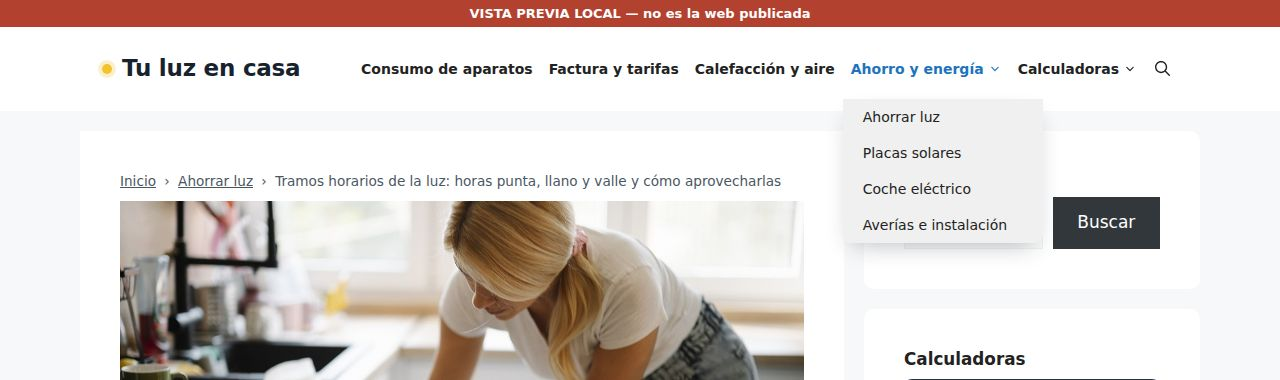
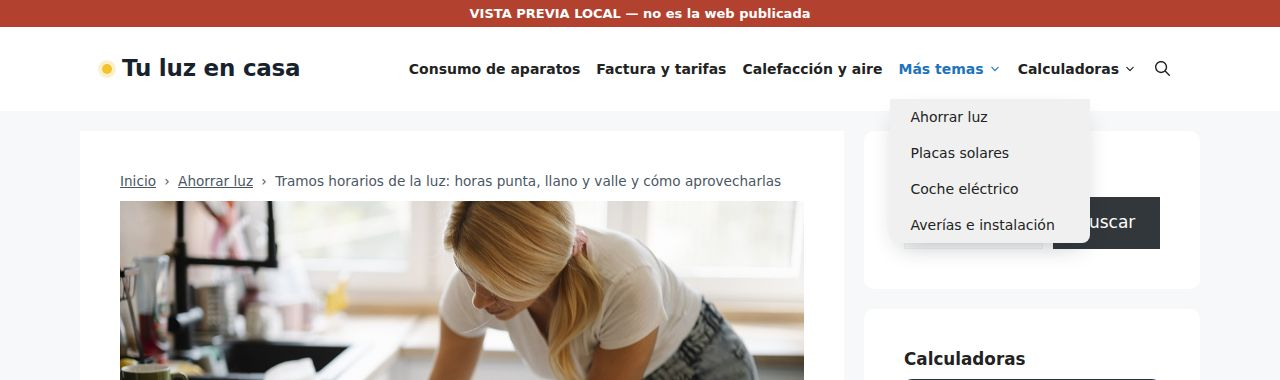
Rediseño aprobado: sin respuesta rápida, menú «Más temas», lista de cambio del enlace a la calculadora y página 156 en borrador
Claude-Session: https://claude.ai/code/session_01LcUkQSM9hv3dGR2XgEzJQL

diff --git a/tuluzencasa/rediseno/wpcode-diseno.css b/tuluzencasa/rediseno/wpcode-diseno.css
@@ -94,9 +94,6 @@ body.home{background:var(--tl-pared)}
 .single .rank-math-breadcrumb a{color:var(--tl-tinta2)}
 .single .rank-math-breadcrumb .separator{margin:0 4px}
 .single .entry-meta .posted-on{font-weight:600}
-.tl-respuesta{background:#F2C2301f;border-left:4px solid var(--tl-amarillo);border-radius:0 10px 10px 0;padding:14px 18px;margin:0 0 1.5em}
-.tl-respuesta strong{display:block;font-size:.8rem;text-transform:uppercase;letter-spacing:.07em;color:var(--tl-tinta2);margin-bottom:4px}
-.tl-respuesta p{margin:0;font-size:1.05rem;line-height:1.5}
 .tl-indice{background:var(--tl-papel);border:1px solid var(--tl-linea);border-radius:10px;padding:14px 18px 6px;margin:0 0 1.5em}
 .tl-indice>p{font-weight:800;margin:0 0 6px}
 .tl-indice ul{margin:0 0 8px 1.2em}

diff --git a/tuluzencasa/rediseno/herramientas/construir.py b/tuluzencasa/rediseno/herramientas/construir.py
@@ -18,7 +18,7 @@ def li(id_,txt,url,cur=False): return f'<li id="menu-item-{id_}" class="menu-ite
 def lip(id_,txt,kids): return f'<li id="menu-item-{id_}" class="menu-item menu-item-type-custom menu-item-has-children menu-item-{id_}"><a href="#">{txt}{ARROW}</a>\n<ul class="sub-menu">'+''.join(kids)+'</ul>\n</li>'
 MENU=('<ul id="menu-principal" class=" menu sf-menu">'+li(38,'Consumo de aparatos',W+'/consumo/')+li(132,'Factura y tarifas',W+'/factura-luz/')
  +li(78,'Calefacción y aire',W+'/climatizacion/')
- +lip(151,'Ahorro y energía',[li(152,'Ahorrar luz',W+'/ahorro/'),li(153,'Placas solares',W+'/placas-solares/'),li(154,'Coche eléctrico',W+'/coche-electrico/'),li(37,'Averías e instalación',W+'/instalacion/')])
+ +lip(151,'Más temas',[li(152,'Ahorrar luz',W+'/ahorro/'),li(153,'Placas solares',W+'/placas-solares/'),li(154,'Coche eléctrico',W+'/coche-electrico/'),li(37,'Averías e instalación',W+'/instalacion/')])
  +lip(900,'Calculadoras',[li(901,'Calculadora de consumo eléctrico',W+'/calculadora-consumo-electrico/'),li(902,'Calculadora de potencia contratada',W+'/calculadora-potencia-contratada/')])
  +'</ul>')
 LUPA='<span class="gp-icon icon-search"><svg viewBox="0 0 512 512" aria-hidden="true" xmlns="http://www.w3.org/2000/svg" width="1em" height="1em"><path fill-rule="evenodd" clip-rule="evenodd" d="M208 48c-88.366 0-160 71.634-160 160s71.634 160 160 160 160-71.634 160-160S296.366 48 208 48zM0 208C0 93.125 93.125 0 208 0s208 93.125 208 208c0 48.741-16.765 93.566-44.843 129.024l133.826 134.018c9.366 9.379 9.355 24.575-.025 33.941-9.379 9.366-24.575 9.355-33.941-.025L337.238 370.987C301.747 399.167 256.839 416 208 416 93.125 416 0 322.875 0 208z" /></svg></span>'

diff --git a/tuluzencasa/rediseno/wpcode-plantilla.php b/tuluzencasa/rediseno/wpcode-plantilla.php
@@ -27,7 +27,7 @@ add_filter( 'generate_post_date_output', function ( $output, $time_string ) {
 	return '<span class="posted-on">Actualizado el ' . $time_string . '</span> ';
 }, 10, 2 );
 
-/* 3. Contenido de las entradas: respuesta rápida, índice, huecos de anuncios, autor y relacionados */
+/* 3. Contenido de las entradas: índice, huecos de anuncios, autor y relacionados */
 add_filter( 'the_content', function ( $content ) {
 	if ( ! is_singular( 'post' ) || ! in_the_loop() || ! is_main_query() ) {
 		return $content;
@@ -63,12 +63,6 @@ add_filter( 'the_content', function ( $content ) {
 	if ( preg_match_all( '#<h2[ >]#', $content, $m, PREG_OFFSET_CAPTURE ) && count( $m[0] ) >= 3 ) {
 		$mitad   = $m[0][ intdiv( count( $m[0] ), 2 ) ][1];
 		$content = substr( $content, 0, $mitad ) . $hueco( 'mitad' ) . substr( $content, $mitad );
-	}
-
-	// Respuesta rápida: el extracto, solo si el artículo no tiene ya una.
-	if ( has_excerpt() && false === strpos( $content, 'tl-respuesta' ) ) {
-		$content = '<div class="tl-respuesta"><strong>Respuesta rápida</strong><p>'
-			. esc_html( get_the_excerpt() ) . '</p></div>' . $content;
 	}
 
 	// Hueco 3: al final.

diff --git a/tuluzencasa/rediseno/cambio-calculadora-portada.md b/tuluzencasa/rediseno/cambio-calculadora-portada.md
@@ -1,0 +1,171 @@
+# Cambio «calculadora de la portada» → «nuestra calculadora de consumo»
+
+Enlace nuevo: `https://tuluzencasa.com/calculadora-consumo-electrico/`. Entre corchetes, el texto enlazado. Solo cambian estas frases; el resto del contenido queda igual.
+
+## 79 · Página /sobre-nosotros/
+
+- Antes: Todas las cifras de la web salen de las mismas reglas que usa la [calculadora de consumo de la portada]:
+  Ahora: Todas las cifras de la web salen de las mismas reglas que usa [nuestra calculadora de consumo]:
+
+## 16 · Entrada /cuanto-consume-aire-acondicionado/
+
+- Antes: Con la [calculadora de consumo de la portada] puedes meter tu potencia y tus horas y comprobar si la cifra cuadra.
+  Ahora: Con [nuestra calculadora de consumo] puedes meter tu potencia y tus horas y comprobar si la cifra cuadra.
+
+- Antes: Calcula tu caso exacto con la [calculadora de la portada]:
+  Ahora: Calcula tu caso exacto con [nuestra calculadora de consumo]:
+
+## 17 · Entrada /cuanto-consume-freidora-de-aire/
+
+- Antes: Es la misma regla que usa la calculadora de la portada.
+  Ahora: Es la misma regla que usa nuestra calculadora de consumo.
+
+- Antes: Son unos 15,21 € al año con tres usos a la semana, comparando con un horno de 2.200 W, el mismo que usa la calculadora de la portada.
+  Ahora: Son unos 15,21 € al año con tres usos a la semana, comparando con un horno de 2.200 W, el mismo que usa nuestra calculadora de consumo.
+
+- Antes: Y para sumar todos tus aparatos de una vez, usa la [calculadora de consumo eléctrico de la portada].
+  Ahora: Y para sumar todos tus aparatos de una vez, usa [nuestra calculadora de consumo].
+
+- Antes: Calcula tu caso exacto con la [calculadora de la portada]:
+  Ahora: Calcula tu caso exacto con [nuestra calculadora de consumo]:
+
+## 18 · Entrada /cuanto-consume-radiador-de-aceite/
+
+- Antes: En la [calculadora de consumo de la portada] puedes meter varios aparatos y ver cuánto supone cada uno en tu factura.
+  Ahora: En [nuestra calculadora de consumo] puedes meter varios aparatos y ver cuánto supone cada uno en tu factura.
+
+- Antes: Calcula tu caso exacto con la [calculadora de la portada]:
+  Ahora: Calcula tu caso exacto con [nuestra calculadora de consumo]:
+
+## 19 · Entrada /cuanto-consume-termo-electrico/
+
+- Antes: Si quieres ver cómo se reparte todo tu consumo, suma tus aparatos en la [calculadora de consumo de la portada].
+  Ahora: Si quieres ver cómo se reparte todo tu consumo, suma tus aparatos en [nuestra calculadora de consumo].
+
+- Antes: Calcula tu caso exacto con la [calculadora de la portada]:
+  Ahora: Calcula tu caso exacto con [nuestra calculadora de consumo]:
+
+## 20 · Entrada /cuanto-consume-una-nevera/
+
+- Antes: Y si quieres sumar todos tus aparatos, puedes hacerlo con la [calculadora de consumo eléctrico de la portada].
+  Ahora: Y si quieres sumar todos tus aparatos, puedes hacerlo con [nuestra calculadora de consumo].
+
+- Antes: Calcula tu caso exacto con la [calculadora de la portada]:
+  Ahora: Calcula tu caso exacto con [nuestra calculadora de consumo]:
+
+## 21 · Entrada /por-que-salta-el-diferencial/
+
+- Antes: Si quieres ver cuánto gasta cada aparato de tu casa y cuánta potencia necesitas a la vez, usa la [calculadora de consumo de la portada].
+  Ahora: Si quieres ver cuánto gasta cada aparato de tu casa y cuánta potencia necesitas a la vez, usa [nuestra calculadora de consumo].
+
+- Antes: Calcula tu caso exacto con la [calculadora de la portada]:
+  Ahora: Calcula tu caso exacto con [nuestra calculadora de consumo]:
+
+## 92 · Entrada /como-leer-factura-luz/
+
+- Antes: Es la factura de un mes (30,4 días) del piso de 3 personas que puedes cargar en la calculadora de la portada:
+  Ahora: Es la factura de un mes (30,4 días) del piso de 3 personas que puedes cargar en nuestra calculadora de consumo:
+
+- Antes: Para saber qué parte de la energía se lleva cada aparato, mete los tuyos en la [calculadora de consumo de la portada]:
+  Ahora: Para saber qué parte de la energía se lleva cada aparato, mete los tuyos en [nuestra calculadora de consumo]:
+
+- Antes: Calcula tu caso exacto con la calculadora de la portada:
+  Ahora: Calcula tu caso exacto con [nuestra calculadora de consumo]:
+
+## 93 · Entrada /que-potencia-contratar/
+
+- Antes: Los cálculos usan un término de potencia de 0,09 € por kW y día sin impuestos, más el impuesto eléctrico (5,11 %) y el IVA (21 %), los mismos valores que la calculadora de la portada.
+  Ahora: Los cálculos usan un término de potencia de 0,09 € por kW y día sin impuestos, más el impuesto eléctrico (5,11 %) y el IVA (21 %), los mismos valores que nuestra calculadora de consumo.
+
+- Antes: Las potencias de los aparatos son las que usamos en la calculadora de la portada y en nuestros artículos de consumo.
+  Ahora: Las potencias de los aparatos son las que usamos en nuestra calculadora de consumo y en nuestros artículos de consumo.
+
+- Antes: Y si quieres ver cuánto pesa la potencia en tu factura total, la [calculadora de consumo de la portada] te lo separa del gasto en energía.
+  Ahora: Y si quieres ver cuánto pesa la potencia en tu factura total, [nuestra calculadora de consumo] te lo separa del gasto en energía.
+
+- Antes: Calcula tu caso exacto con la calculadora de la portada:
+  Ahora: Calcula tu caso exacto con [nuestra calculadora de consumo]:
+
+## 94 · Entrada /pvpc-mercado-libre/
+
+- Antes: Los cálculos usan los precios orientativos de la calculadora de la portada:
+  Ahora: Los cálculos usan los precios orientativos de nuestra calculadora de consumo:
+
+- Antes: Es el ejemplo que puedes cargar en la calculadora de la portada:
+  Ahora: Es el ejemplo que puedes cargar en nuestra calculadora de consumo:
+
+- Antes: Para ver qué aparatos se llevan tu consumo y en qué tramo, usa la [calculadora de consumo de la portada]:
+  Ahora: Para ver qué aparatos se llevan tu consumo y en qué tramo, usa [nuestra calculadora de consumo]:
+
+- Antes: Calcula tu caso exacto con la calculadora de la portada:
+  Ahora: Calcula tu caso exacto con [nuestra calculadora de consumo]:
+
+## 95 · Entrada /calefaccion-electrica-mas-barata/
+
+- Antes: Para sumar tus aparatos y ver cuánto pesa la calefacción en tu factura, usa la [calculadora de consumo eléctrico de la portada].
+  Ahora: Para sumar tus aparatos y ver cuánto pesa la calefacción en tu factura, usa [nuestra calculadora de consumo].
+
+- Antes: Calcula tu caso exacto con la [calculadora de la portada]:
+  Ahora: Calcula tu caso exacto con [nuestra calculadora de consumo]:
+
+## 96 · Entrada /bomba-calor-radiadores-electricos/
+
+- Antes: Calcula tu caso exacto con la [calculadora de la portada]:
+  Ahora: Calcula tu caso exacto con [nuestra calculadora de consumo]:
+
+## 97 · Entrada /radiador-aceite-convector-calefactor/
+
+- Antes: En nuestros cálculos usamos un factor de uso real para cada tipo, el mismo que en la calculadora de la portada:
+  Ahora: En nuestros cálculos usamos un factor de uso real para cada tipo, el mismo que en nuestra calculadora de consumo:
+
+- Antes: Calcula tu caso exacto con la [calculadora de la portada]:
+  Ahora: Calcula tu caso exacto con [nuestra calculadora de consumo]:
+
+## 98 · Entrada /cuanto-consume-estufa-electrica/
+
+- Antes: Es el mismo criterio que usa la calculadora de la portada.
+  Ahora: Es el mismo criterio que usa nuestra calculadora de consumo.
+
+- Antes: Calcula tu caso exacto con la [calculadora de la portada]:
+  Ahora: Calcula tu caso exacto con [nuestra calculadora de consumo]:
+
+## 104 · Entrada /cuanto-consumen-emisores-termicos/
+
+- Antes: Calcula tu caso exacto con la [calculadora de la portada]:
+  Ahora: Calcula tu caso exacto con [nuestra calculadora de consumo]:
+
+## 105 · Entrada /cuanto-consume-manta-electrica/
+
+- Antes: Aplicamos un factor de uso real de 0,5, el mismo que usa la calculadora de la portada.
+  Ahora: Aplicamos un factor de uso real de 0,5, el mismo que usa nuestra calculadora de consumo.
+
+- Antes: Calcula tu caso exacto con la [calculadora de la portada]:
+  Ahora: Calcula tu caso exacto con [nuestra calculadora de consumo]:
+
+## 106 · Entrada /cuanto-consume-deshumidificador/
+
+- Antes: Es el mismo criterio que usa la calculadora de la portada.
+  Ahora: Es el mismo criterio que usa nuestra calculadora de consumo.
+
+- Antes: Calcula tu caso exacto con la [calculadora de la portada]:
+  Ahora: Calcula tu caso exacto con [nuestra calculadora de consumo]:
+
+## 134 · Entrada /tramos-horarios-luz/
+
+- Antes: Calcula tu caso exacto con la [calculadora de la portada]:
+  Ahora: Calcula tu caso exacto con [nuestra calculadora de consumo]:
+
+## 135 · Entrada /bono-social-electrico/
+
+- Antes: Calcula tu caso exacto con la [calculadora de la portada]:
+  Ahora: Calcula tu caso exacto con [nuestra calculadora de consumo]:
+
+## 136 · Entrada /placas-solares-en-casa/
+
+- Antes: Calcula tu caso exacto con la [calculadora de la portada]:
+  Ahora: Calcula tu caso exacto con [nuestra calculadora de consumo]:
+
+## 137 · Entrada /cuanto-cuesta-cargar-coche-electrico-casa/
+
+- Antes: Calcula tu caso exacto con la [calculadora de la portada]:
+  Ahora: Calcula tu caso exacto con [nuestra calculadora de consumo]:

diff --git a/tuluzencasa/rediseno/LEEME.md b/tuluzencasa/rediseno/LEEME.md
@@ -1,33 +1,36 @@
 # Rediseño de tuluzencasa (estilo web de nicho con AdSense)
 
-Estado: **solo vista previa.** No se ha aplicado nada en WordPress.
+Estado: rediseño aprobado (5-10-2026). Creada la página 156 «Calculadora de consumo eléctrico» en **borrador**. Lo demás está sin aplicar.
+
+Cambios pedidos sobre la propuesta: sin caja de «Respuesta rápida»; menú con «Más temas ▾» (Ahorrar luz, Placas solares, Coche eléctrico, Averías e instalación) y «Calculadoras ▾», sin «Inicio»; el texto «calculadora de la portada» pasa a «nuestra calculadora de consumo» con enlace a la página nueva (lista exacta en `cambio-calculadora-portada.md`).
 
 ## Archivos
 
 | Archivo | Qué es |
 |---|---|
 | `wpcode-diseno.css` | Fragmento CSS de WPCode («Diseño tuluzencasa»), en todo el sitio. Incluye las mejoras de móvil de `mejoras-movil/`. |
-| `wpcode-plantilla.php` | Fragmento PHP de WPCode («Plantilla tuluzencasa»). Añade la ruta de navegación, la fecha de actualización, la respuesta rápida, el índice, los huecos de anuncios, la caja de autor y los artículos relacionados, y el shortcode `[tl_categorias]`. No modifica el texto guardado de los artículos. |
+| `wpcode-plantilla.php` | Fragmento PHP de WPCode («Plantilla tuluzencasa»). Añade la ruta de navegación, la fecha de actualización, el índice, los huecos de anuncios, la caja de autor y los artículos relacionados, y el shortcode `[tl_categorias]`. No modifica el texto guardado de los artículos. |
 | `portada.html` | Contenido nuevo de la página 23 (Inicio), en bloques de WordPress. Se genera con `generar.py`. |
 | `pagina-calculadora-consumo.html` | Página nueva «Calculadora de consumo eléctrico» (`/calculadora-consumo-electrico/`), con la calculadora de la portada actual tal cual. |
 | `vista-previa/*.jpg` | Capturas de la vista previa local en escritorio (1280 px), tablet (820 px) y móvil (390 px). |
 | `copia-seguridad/` | Copia del estado actual: contenido de la página 23, menús 21 y 22, widgets y barras laterales, y los dos JS de las calculadoras. |
 | `herramientas/` | Scripts de la vista previa: `construir.py` y `capturas.mjs`. |
 
-## Orden para aplicar (cuando haya OK)
+## Orden para aplicar
 
-| # | Quién | Cambio |
-|---|---|---|
-| 1 | Claude | Copia de seguridad recién hecha justo antes de aplicar (se compara con `copia-seguridad/`). |
-| 2 | Titular | WPCode: crear el CSS «Diseño tuluzencasa» (todo el sitio, cabecera). Desactivar «CSS artículos móvil» si existe. |
-| 3 | Titular | WPCode: crear el PHP «Plantilla tuluzencasa» (ejecutar en todas partes). |
-| 4 | Titular | Personalizador › Diseño › Navegación principal: Búsqueda en la navegación = Activar; Punto de corte del menú móvil = 1024 px. |
-| 5 | Titular | Rank Math › Ajustes generales › Rutas de navegación: activar. Separador `›`. Mostrar Inicio. |
-| 6 | Claude | Crear la página «Calculadora de consumo eléctrico» en **borrador**. La publica el titular. |
-| 7 | Titular | WPCode: «Calculadora Home» → lógica condicional «solo en la página calculadora-consumo-electrico». «Calculadora potencia» → solo en `calculadora-potencia-contratada`. |
-| 8 | Claude | Menú 21: quitar Inicio. Mover Averías e instalación dentro de «Ahorro y energía». Añadir «Calculadoras ▾» con las 2 páginas. |
-| 9 | Claude | Widget «Calculadoras» (block-3): enlace a la página nueva. |
-| 10 | Claude | Página 23: contenido de `portada.html`, y título/descripción de Rank Math nuevos para la portada. La página de la calculadora recibe los actuales. |
+| # | Quién | Cambio | Estado |
+|---|---|---|---|
+| 1 | Claude | Página 156 «Calculadora de consumo eléctrico» en borrador, con el título y la descripción de Rank Math que ahora tiene la portada | Hecho |
+| 2 | Titular | WPCode: crear el CSS «Diseño tuluzencasa» (todo el sitio, cabecera). Desactivar «CSS artículos móvil» si existe | Pendiente |
+| 3 | Titular | WPCode: crear el PHP «Plantilla tuluzencasa» (ejecutar en todas partes) | Pendiente |
+| 4 | Titular | Personalizador › Diseño › Navegación principal: Búsqueda en la navegación = Activar; Punto de corte del menú móvil = 1024 px | Pendiente |
+| 5 | Titular | Rank Math › Ajustes generales › Rutas de navegación: activar, separador `›`, mostrar Inicio | Pendiente |
+| 6 | Titular | Revisar la vista previa de la página 156 y publicarla | Pendiente |
+| 7 | Titular | WPCode: lógica condicional para que «Calculadora Home» cargue solo en `calculadora-consumo-electrico` y «Calculadora potencia» solo en `calculadora-potencia-contratada` | Pendiente |
+| 8 | Claude | Menú 21: quitar Inicio; el 151 pasa a «Más temas» y recibe Averías e instalación; nuevo «Calculadoras ▾» con las 2 páginas | Tras el 6 |
+| 9 | Claude | Widget «Calculadoras» (block-3): enlace a la página nueva | Tras el 6 |
+| 10 | Claude | Página 23: contenido de `portada.html` y título/descripción nuevos de Rank Math | Tras el 3 y el 6 |
+| 11 | Claude | 20 entradas y Sobre nosotros: «calculadora de la portada» → «nuestra calculadora de consumo» (`cambio-calculadora-portada.md`) | Tras el 6 |
 
 ## Deshacer
 
@@ -35,3 +38,4 @@ Estado: **solo vista previa.** No se ha aplicado nada en WordPress.
 - Personalizador y Rank Math: volver a poner los valores anteriores (búsqueda desactivada, corte en 768 px, rutas desactivadas).
 - Página 23, menú y widgets: Claude restaura desde `copia-seguridad/`.
 - Página nueva: pasarla a borrador.
+- Textos de las entradas: Claude los restaura desde la copia de cada entrada que guarda antes de aplicar.
